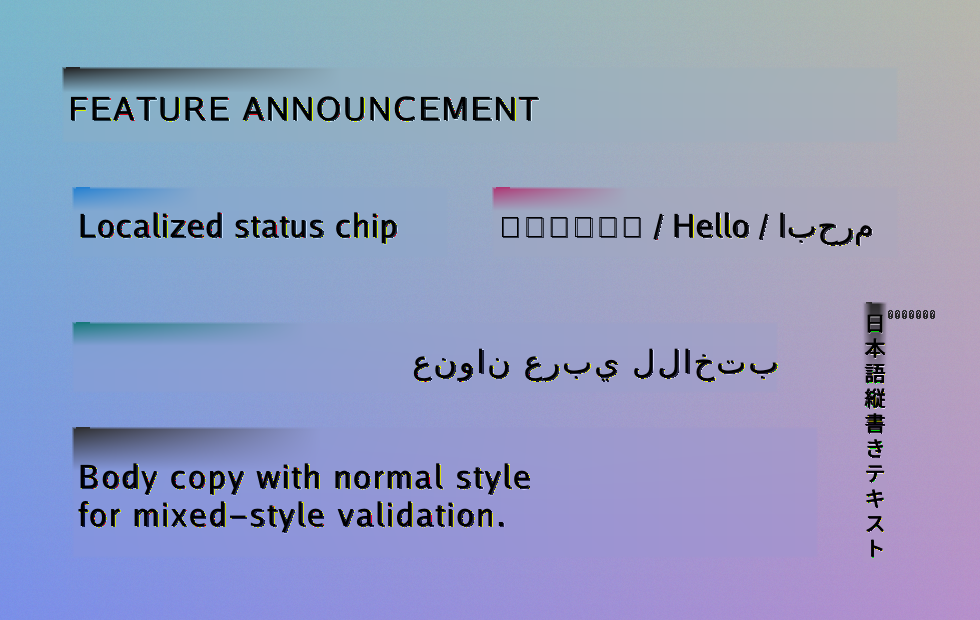
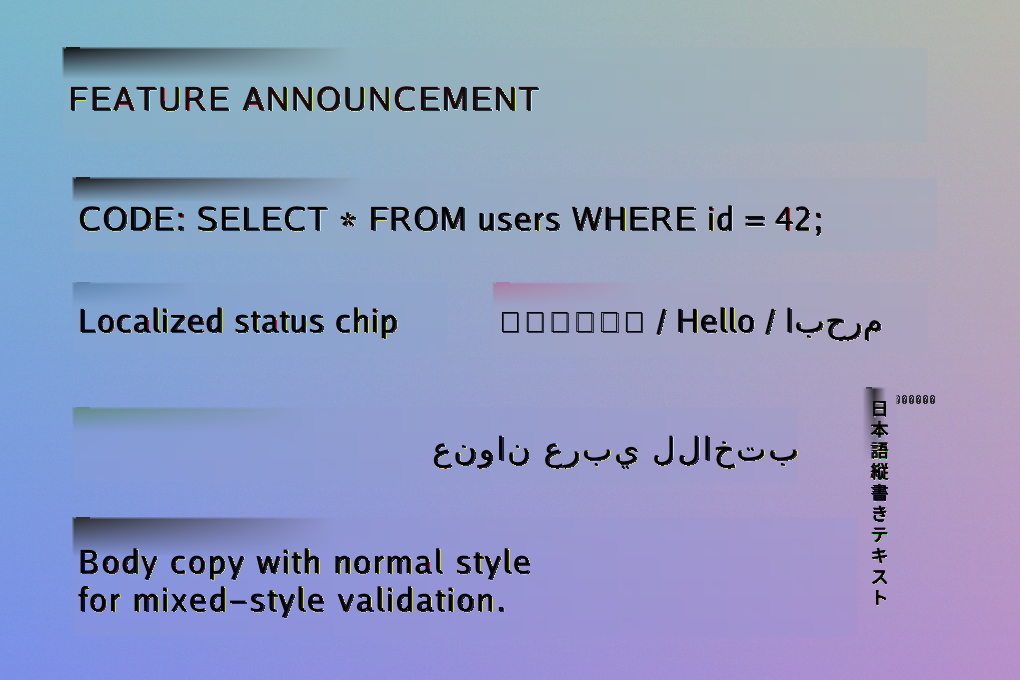
add adaptive color amplification

diff --git a/backend/internal/services/image_service_test.go b/backend/internal/services/image_service_test.go
@@ -2095,3 +2095,109 @@ func TestDefaultOverlayOptions_NegativeTextPaddingFallsBackToConstant(t *testing
 		t.Fatalf("unexpected error with TextPadding=-1: %v", err)
 	}
 }
+
+// ---- boostSampledColor (adaptive saturation amplification) ----
+
+// TestBoostSampledColor_GrayscaleReceivesMaxBoost verifies that a near-gray
+// colour (s≈0) receives close to the full boostSaturationMax delta.
+func TestBoostSampledColor_GrayscaleReceivesMaxBoost(t *testing.T) {
+	// Mid-gray on a white background.
+	gray := color.RGBA{R: 128, G: 128, B: 128, A: 255}
+	_, sBefore, _ := rgbToHSL(gray)
+	result := boostSampledColor(gray, 1.0)
+	_, sAfter, _ := rgbToHSL(result)
+	// The boost applied should be close to boostSaturationMax because s≈0.
+	applied := sAfter - sBefore
+	if applied < boostSaturationMax*0.85 {
+		t.Errorf("expected close-to-max boost for gray, got applied=%.4f (max=%.4f)", applied, boostSaturationMax)
+	}
+}
+
+// TestBoostSampledColor_VividColorUnchangedSaturation verifies that a fully
+// saturated colour (s=1) receives essentially no saturation boost.
+func TestBoostSampledColor_VividColorUnchangedSaturation(t *testing.T) {
+	// Pure red is fully saturated in HSL.
+	red := color.RGBA{R: 255, G: 0, B: 0, A: 255}
+	_, sBefore, _ := rgbToHSL(red)
+	result := boostSampledColor(red, 1.0)
+	_, sAfter, _ := rgbToHSL(result)
+	applied := sAfter - sBefore
+	if math.Abs(applied) > 0.02 {
+		t.Errorf("expected ~0 boost for fully-saturated red, got applied=%.4f (s_before=%.4f, s_after=%.4f)",
+			applied, sBefore, sAfter)
+	}
+}
+
+// TestBoostSampledColor_LowSatGetsMoreBoostThanHighSat verifies that a muted
+// colour receives a larger saturation boost than an already-vivid one.
+func TestBoostSampledColor_LowSatGetsMoreBoostThanHighSat(t *testing.T) {
+	bgLum := 1.0 // light background, kept constant for isolation
+
+	// Muted teal: RGB(100, 130, 130) — low saturation.
+	muted := color.RGBA{R: 100, G: 130, B: 130, A: 255}
+	// Vivid teal: RGB(0, 200, 200) — high saturation.
+	vivid := color.RGBA{R: 0, G: 200, B: 200, A: 255}
+
+	_, sMutedBefore, _ := rgbToHSL(muted)
+	resultMuted := boostSampledColor(muted, bgLum)
+	_, sMutedAfter, _ := rgbToHSL(resultMuted)
+	appliedMuted := sMutedAfter - sMutedBefore
+
+	_, sVividBefore, _ := rgbToHSL(vivid)
+	resultVivid := boostSampledColor(vivid, bgLum)
+	_, sVividAfter, _ := rgbToHSL(resultVivid)
+	appliedVivid := sVividAfter - sVividBefore
+
+	if appliedMuted <= appliedVivid {
+		t.Errorf("expected muted colour to receive larger boost than vivid: "+
+			"muted applied=%.4f, vivid applied=%.4f "+
+			"(s_muted_before=%.4f, s_vivid_before=%.4f)",
+			appliedMuted, appliedVivid, sMutedBefore, sVividBefore)
+	}
+}
+
+// TestBoostSampledColor_AdaptiveDeltaFormula directly verifies the delta
+// formula for a mid-saturation colour.
+func TestBoostSampledColor_AdaptiveDeltaFormula(t *testing.T) {
+	// Build a colour whose HSL saturation we can predict.
+	// RGB(255, 128, 0) is orange with s≈1 in HSL — use a pastier shade instead.
+	// Pastel pink RGB(230, 180, 180): s should be around 0.35.
+	pink := color.RGBA{R: 230, G: 180, B: 180, A: 255}
+	_, s, _ := rgbToHSL(pink)
+	expectedDelta := boostSaturationMax * math.Pow(1.0-s, boostSaturationCurve)
+
+	_, sBefore, _ := rgbToHSL(pink)
+	result := boostSampledColor(pink, 1.0)
+	_, sAfter, _ := rgbToHSL(result)
+	appliedDelta := sAfter - sBefore
+
+	// Allow a small tolerance for floating-point rounding and clamping.
+	tolerance := 0.04
+	diff := math.Abs(appliedDelta - expectedDelta)
+	if diff > tolerance {
+		t.Errorf("adaptive delta mismatch: s=%.4f expected_delta=%.4f applied=%.4f (diff=%.4f)",
+			sBefore, expectedDelta, appliedDelta, diff)
+	}
+}
+
+// TestBoostSampledColor_ContrastEnforced verifies that a low-contrast ink
+// colour on a light background is pushed darker so the luminance gap improves.
+// The function adjusts HSL lightness (not linear luminance), so we verify
+// meaningful improvement rather than an exact threshold.
+func TestBoostSampledColor_ContrastEnforced(t *testing.T) {
+	// Medium gray on white — luminance diff before boost is clearly below boostMinContrast.
+	gray := color.RGBA{R: 180, G: 180, B: 180, A: 255}
+	bgLum := 1.0 // white background
+	inkLumBefore := colorLuminance(gray)
+	diffBefore := bgLum - inkLumBefore
+
+	result := boostSampledColor(gray, bgLum)
+	inkLumAfter := colorLuminance(result)
+	diffAfter := bgLum - inkLumAfter
+
+	// Contrast must have improved (ink is darker after the boost).
+	if diffAfter <= diffBefore {
+		t.Errorf("expected contrast to improve: diffBefore=%.3f diffAfter=%.3f (inkBefore=%.3f inkAfter=%.3f)",
+			diffBefore, diffAfter, inkLumBefore, inkLumAfter)
+	}
+}

diff --git a/backend/cmd/gen_samples/main.go b/backend/cmd/gen_samples/main.go
@@ -267,19 +267,21 @@ func main() {
 	// ── 5. before/after: bold text style detection ──────────────────────────────
 	{
 		blocks := []services.ImageTextBlock{
-			{Text: "BOLD HEADING", Bbox: []float64{60, 70, 420, 130}},
-			{Text: "regular line", Bbox: []float64{60, 165, 420, 225}},
+			{Text: "BOLD HEADING", Bbox: []float64{50, 40, 900, 150}},
+			{Text: "regular line", Bbox: []float64{50, 180, 640, 250}},
+			{Text: "secondary regular", Bbox: []float64{50, 265, 640, 335}},
 		}
 		canvas := writeCanvasWithText(
-			"loklingo_before_after_bold.png", 920, 300,
+			"loklingo_before_after_bold.png", 980, 370,
 			blocks,
-			[]string{"BOLD HEADING", "regular line"},
-			[]color.RGBA{{20, 20, 20, 255}, {25, 25, 25, 255}},
-			[]bool{true, false},
+			[]string{"BOLD HEADING", "regular line", "secondary regular"},
+			[]color.RGBA{{18, 18, 18, 255}, {32, 32, 32, 255}, {40, 40, 40, 255}},
+			[]bool{true, false, false},
 		)
 		translated := []string{
 			"BOLD HEADING",
 			"regular line",
+			"secondary regular",
 		}
 		render(canvas, blocks, translated, before, "before_bold_style")
 		render(canvas, blocks, translated, after, "after_bold_style")
@@ -297,7 +299,8 @@ func main() {
 			"loklingo_before_after_colored.png", 920, 320,
 			blocks,
 			[]string{"Status: WARNING", "Status: OK", "Status: ERROR"},
-			[]color.RGBA{{235, 140, 20, 255}, {30, 160, 70, 255}, {210, 35, 40, 255}},
+			// Deliberately muted tones so adaptive amplification is visible in "after".
+			[]color.RGBA{{168, 142, 110, 255}, {108, 146, 126, 255}, {156, 112, 118, 255}},
 			[]bool{false, false, true},
 		)
 		translated := []string{
@@ -313,18 +316,20 @@ func main() {
 	// ── 7. before/after: mixed styles (bold + colored + scripts) ──────────────
 	{
 		blocks := []services.ImageTextBlock{
-			{Text: "FEATURE ANNOUNCEMENT", Bbox: []float64{60, 65, 900, 145}},
-			{Text: "Localized status chip", Bbox: []float64{70, 185, 450, 260}},
-			{Text: "Mixed script subtitle", Bbox: []float64{490, 185, 900, 260}},
-			{Text: "日本語縦書きテキスト", Bbox: []float64{860, 300, 890, 565}},
-			{Text: "Arabic section title", Bbox: []float64{70, 320, 780, 395}},
-			{Text: "Body copy with normal style", Bbox: []float64{70, 425, 820, 560}},
+			{Text: "FEATURE ANNOUNCEMENT", Bbox: []float64{60, 45, 930, 145}},
+			{Text: "CODE: SELECT * FROM users WHERE id = 42;", Bbox: []float64{70, 175, 940, 255}},
+			{Text: "Localized status chip", Bbox: []float64{70, 280, 450, 355}},
+			{Text: "Mixed script subtitle", Bbox: []float64{490, 280, 930, 355}},
+			{Text: "日本語縦書きテキスト", Bbox: []float64{860, 385, 900, 615}},
+			{Text: "Arabic section title", Bbox: []float64{70, 405, 800, 485}},
+			{Text: "Body copy with normal style", Bbox: []float64{70, 515, 860, 640}},
 		}
 		canvas := writeCanvasWithText(
-			"loklingo_before_after_mixed.png", 980, 620,
+			"loklingo_before_after_mixed.png", 1020, 680,
 			blocks,
 			[]string{
 				"FEATURE ANNOUNCEMENT",
+				"CODE: SELECT * FROM users WHERE id = 42;",
 				"Localized status chip",
 				"नमस्ते / Hello / مرحبا",
 				"日本語縦書きテキスト",
@@ -332,17 +337,19 @@ func main() {
 				"Body copy with normal style",
 			},
 			[]color.RGBA{
-				{32, 32, 32, 255},
-				{34, 128, 210, 255},
-				{176, 52, 114, 255},
+				{18, 18, 18, 255},
+				{26, 26, 26, 255},
+				{92, 132, 174, 255},
+				{170, 124, 164, 255},
 				{40, 40, 40, 255},
-				{20, 120, 120, 255},
+				{98, 140, 136, 255},
 				{45, 45, 45, 255},
 			},
-			[]bool{true, false, false, false, true, false},
+			[]bool{true, false, false, false, false, true, false},
 		)
 		translated := []string{
 			"FEATURE ANNOUNCEMENT",
+			"CODE: SELECT * FROM users WHERE id = 42;",
 			"Localized status chip",
 			"नमस्ते / Hello / مرحبا",
 			"日本語縦書きテキスト",

diff --git a/backend/internal/services/image_font_style.go b/backend/internal/services/image_font_style.go
@@ -88,6 +88,23 @@ const (
 // image_service.go.  They share the fallbackFontEntry type (same package).
 
 var (
+	// NotoSans Regular – for regular sans blocks
+	styledNotoSans = &fallbackFontEntry{
+		name: "NotoSans",
+		paths: []string{
+			// Alpine (apk font-noto)
+			"/usr/share/fonts/noto/NotoSans-Regular.ttf",
+			// Debian/Ubuntu truetype
+			"/usr/share/fonts/truetype/noto/NotoSans-Regular.ttf",
+			// Debian/Ubuntu opentype
+			"/usr/share/fonts/opentype/noto/NotoSans-Regular.ttf",
+			"/usr/share/fonts/google-noto/NotoSans-Regular.ttf",
+			// Some distros ship the variant without "Regular" in the name
+			"/usr/share/fonts/noto/NotoSans.ttf",
+			"/usr/share/fonts/truetype/noto/NotoSans.ttf",
+		},
+	}
+
 	// NotoSans Bold – for bold sans blocks
 	styledNotoSansBold = &fallbackFontEntry{
 		name: "NotoSans-Bold",
@@ -326,6 +343,25 @@ func detectBlockFontStyle(img *image.RGBA, box image.Rectangle, originalText str
 	return style
 }
 
+// preferredLatinNotoEntry returns the preferred Noto family entry for a Latin
+// segment based on detected style.
+func preferredLatinNotoEntry(style BlockFontStyle) *fallbackFontEntry {
+	switch style.Class {
+	case monoFontClass:
+		return styledNotoSansMono
+	case serifFontClass:
+		if style.Bold {
+			return styledNotoSerifBold
+		}
+		return styledNotoSerif
+	default: // sansFontClass
+		if style.Bold {
+			return styledNotoSansBold
+		}
+		return styledNotoSans
+	}
+}
+
 // -- Font face selection for styled blocks --
 
 // faceForStyle returns the best available font.Face for the given text and
@@ -339,29 +375,25 @@ func detectBlockFontStyle(img *image.RGBA, box image.Rectangle, originalText str
 // always-available embedded Go fonts (gobold / gomono), and finally goregular:
 //   - mono   → NotoSansMono → Go Mono (embedded)
 //   - serif  → NotoSerif-(Bold) → Go Bold (bold) / goregular (regular)
-//   - sans   → NotoSans-Bold (if bold) → Go Bold (embedded bold)
+//   - sans   → NotoSans-(Regular|Bold) → Go Bold (bold) / goregular (regular)
 func faceForStyle(text string, fontSize float64, style BlockFontStyle) (font.Face, error) {
 	// Non-Latin: use the existing script-coverage fallback chain.
 	if needsFallbackFont(text) {
 		return faceForFallback(text, fontSize)
 	}
 
-	switch style.Class {
-	case monoFontClass:
-		if f, err := styledNotoSansMono.face(fontSize); err == nil {
+	if entry := preferredLatinNotoEntry(style); entry != nil {
+		if f, err := entry.face(fontSize); err == nil {
 			return f, nil
 		}
+	}
+
+	switch style.Class {
+	case monoFontClass:
 		// Embedded Go Mono: always available, preserves monospace character.
 		return loadFaceFromFont(embeddedGoMonoFont, &embeddedGoMonoFaceCache, fontSize)
 
 	case serifFontClass:
-		entry := styledNotoSerif
-		if style.Bold {
-			entry = styledNotoSerifBold
-		}
-		if f, err := entry.face(fontSize); err == nil {
-			return f, nil
-		}
 		// Serif bold → embedded Go Bold for clear weight; regular → goregular.
 		if style.Bold {
 			return loadFaceFromFont(embeddedGoBoldFont, &embeddedGoBoldFaceCache, fontSize)
@@ -370,13 +402,10 @@ func faceForStyle(text string, fontSize float64, style BlockFontStyle) (font.Fac
 
 	default: // sansFontClass
 		if style.Bold {
-			if f, err := styledNotoSansBold.face(fontSize); err == nil {
-				return f, nil
-			}
 			// Embedded Go Bold: always available, genuinely heavier typeface.
 			return loadFaceFromFont(embeddedGoBoldFont, &embeddedGoBoldFaceCache, fontSize)
 		}
-		// Regular sans → goregular.
+		// Regular sans → goregular (existing behavior when NotoSans is missing).
 		return loadOverlayFace(fontSize)
 	}
 }

diff --git a/backend/internal/services/image_service.go b/backend/internal/services/image_service.go
@@ -1733,10 +1733,17 @@ func colorLuminance(c color.RGBA) float64 {
 
 // Color-boost parameters for sampled text-ink colours.
 const (
-	// boostSaturationDelta is added to the HSL saturation of sampled text
-	// colours so results are vivid and clearly distinct.  22 % provides
-	// obvious colour impact while remaining true to the original hue intent.
-	boostSaturationDelta = 0.22
+	// boostSaturationMax is the maximum saturation boost added to a
+	// completely desaturated (s=0) colour.  Strong colours (s≈1) receive no
+	// boost at all; the actual delta scales with (1−s)^boostSaturationCurve
+	// so the amplification is strongest where the colour is weakest.
+	boostSaturationMax = 0.55
+	// boostSaturationCurve is the exponent applied to (1−s) when computing
+	// the adaptive saturation delta.  Values above 1 make the curve concave,
+	// so mid-saturation colours are treated more conservatively than a linear
+	// ramp would suggest.  1.5 provides a good balance between boosting muted
+	// colours and preserving already-vivid ones.
+	boostSaturationCurve = 1.5
 	// boostMinContrast is the minimum required luminance difference between
 	// the sampled ink colour and the estimated background.  0.42 ensures text
 	// is always clearly readable against its local background.
@@ -1744,13 +1751,23 @@ const (
 )
 
 // boostSampledColor increases the visual impact of a sampled text-ink colour
-// by raising its HSL saturation and enforcing minimum contrast against the
-// given background luminance.  This prevents washed-out or low-impact colours
-// from appearing in the translated overlay.
+// using adaptive saturation amplification: low-saturation colours receive a
+// large boost while already-vivid colours are left mostly unchanged.  This
+// produces consistent visual impact across diverse inputs without
+// oversaturating strong colours.
+//
+// The saturation delta is computed as:
+//
+//	delta = boostSaturationMax × (1 − s)^boostSaturationCurve
+//
+// At s=0 (grayscale) the full boostSaturationMax boost is applied; at s=1
+// (fully saturated) the delta is zero.  Minimum contrast against the
+// background is enforced after the saturation step.
 func boostSampledColor(c color.RGBA, bgLum float64) color.RGBA {
 	h, s, l := rgbToHSL(c)
-	// 1. Boost saturation.
-	s = math.Min(1.0, s+boostSaturationDelta)
+	// 1. Adaptive saturation boost: scale inversely with existing saturation.
+	adaptiveDelta := boostSaturationMax * math.Pow(1.0-s, boostSaturationCurve)
+	s = math.Min(1.0, s+adaptiveDelta)
 	// 2. Enforce minimum luminance contrast against background.
 	inkLum := colorLuminance(c)
 	if bgLum >= overlayLumThreshold {

diff --git a/backend/internal/services/image_font_style_test.go b/backend/internal/services/image_font_style_test.go
@@ -6,6 +6,43 @@ import (
 	"testing"
 )
 
+// -- preferredLatinNotoEntry tests --
+
+func TestPreferredLatinNotoEntry_SansRegular(t *testing.T) {
+	entry := preferredLatinNotoEntry(BlockFontStyle{Class: sansFontClass, Bold: false})
+	if entry != styledNotoSans {
+		t.Fatalf("expected styledNotoSans for sans regular, got %v", entry)
+	}
+}
+
+func TestPreferredLatinNotoEntry_SansBold(t *testing.T) {
+	entry := preferredLatinNotoEntry(BlockFontStyle{Class: sansFontClass, Bold: true})
+	if entry != styledNotoSansBold {
+		t.Fatalf("expected styledNotoSansBold for sans bold, got %v", entry)
+	}
+}
+
+func TestPreferredLatinNotoEntry_SerifRegular(t *testing.T) {
+	entry := preferredLatinNotoEntry(BlockFontStyle{Class: serifFontClass, Bold: false})
+	if entry != styledNotoSerif {
+		t.Fatalf("expected styledNotoSerif for serif regular, got %v", entry)
+	}
+}
+
+func TestPreferredLatinNotoEntry_SerifBold(t *testing.T) {
+	entry := preferredLatinNotoEntry(BlockFontStyle{Class: serifFontClass, Bold: true})
+	if entry != styledNotoSerifBold {
+		t.Fatalf("expected styledNotoSerifBold for serif bold, got %v", entry)
+	}
+}
+
+func TestPreferredLatinNotoEntry_Mono(t *testing.T) {
+	entry := preferredLatinNotoEntry(BlockFontStyle{Class: monoFontClass})
+	if entry != styledNotoSansMono {
+		t.Fatalf("expected styledNotoSansMono for mono, got %v", entry)
+	}
+}
+
 // -- helpers --
 
 // newGrayImage creates a w×h RGBA image filled with the given gray value.
